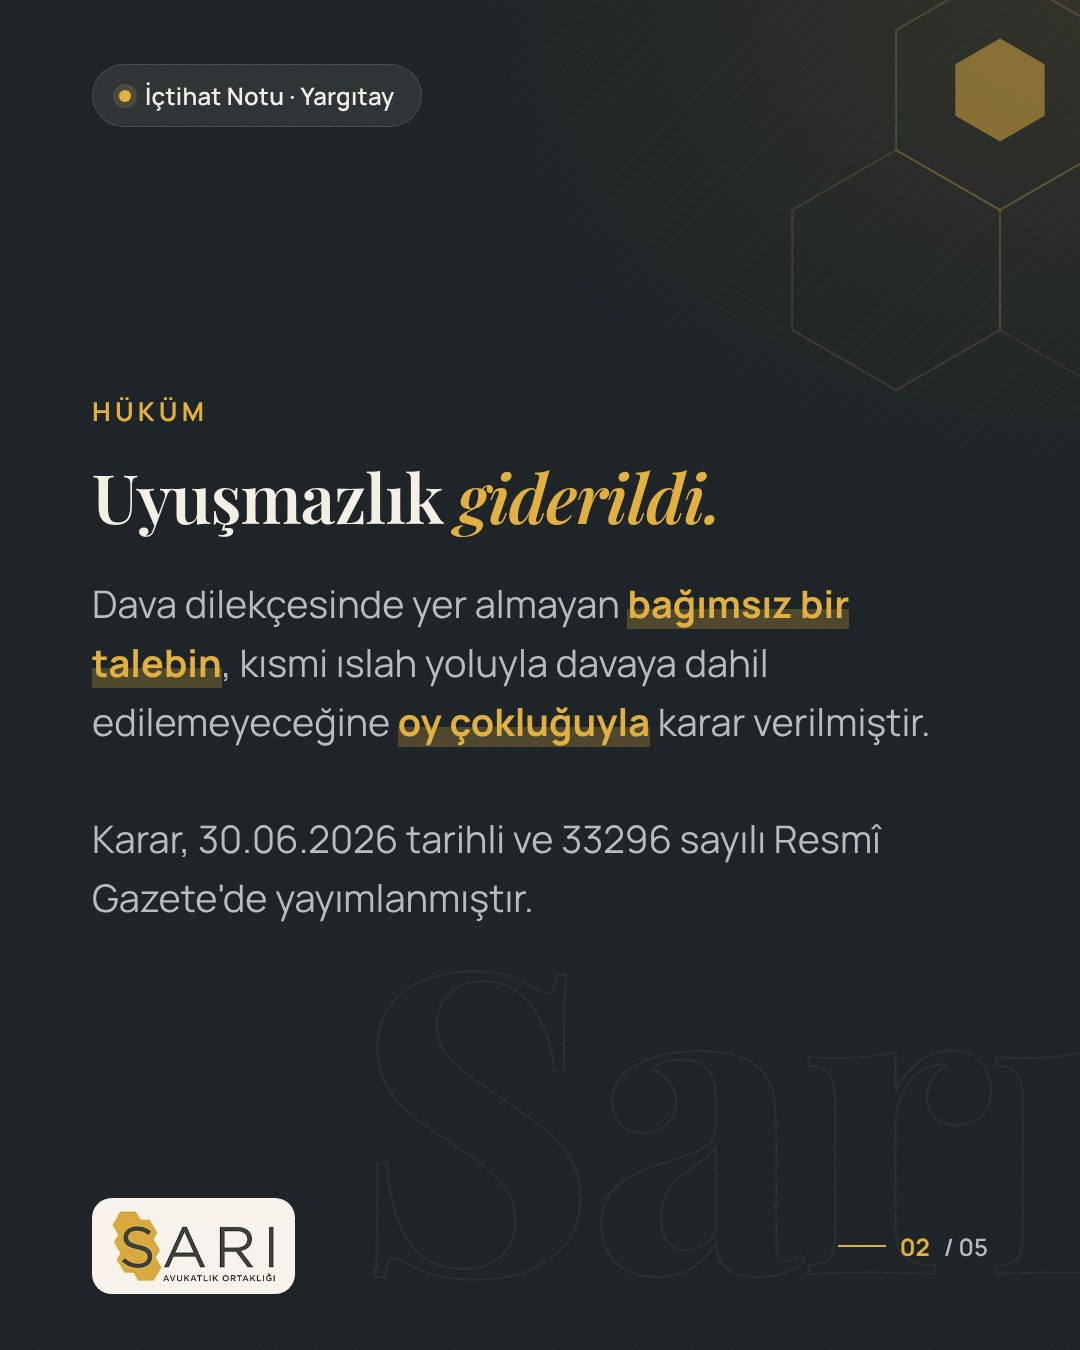
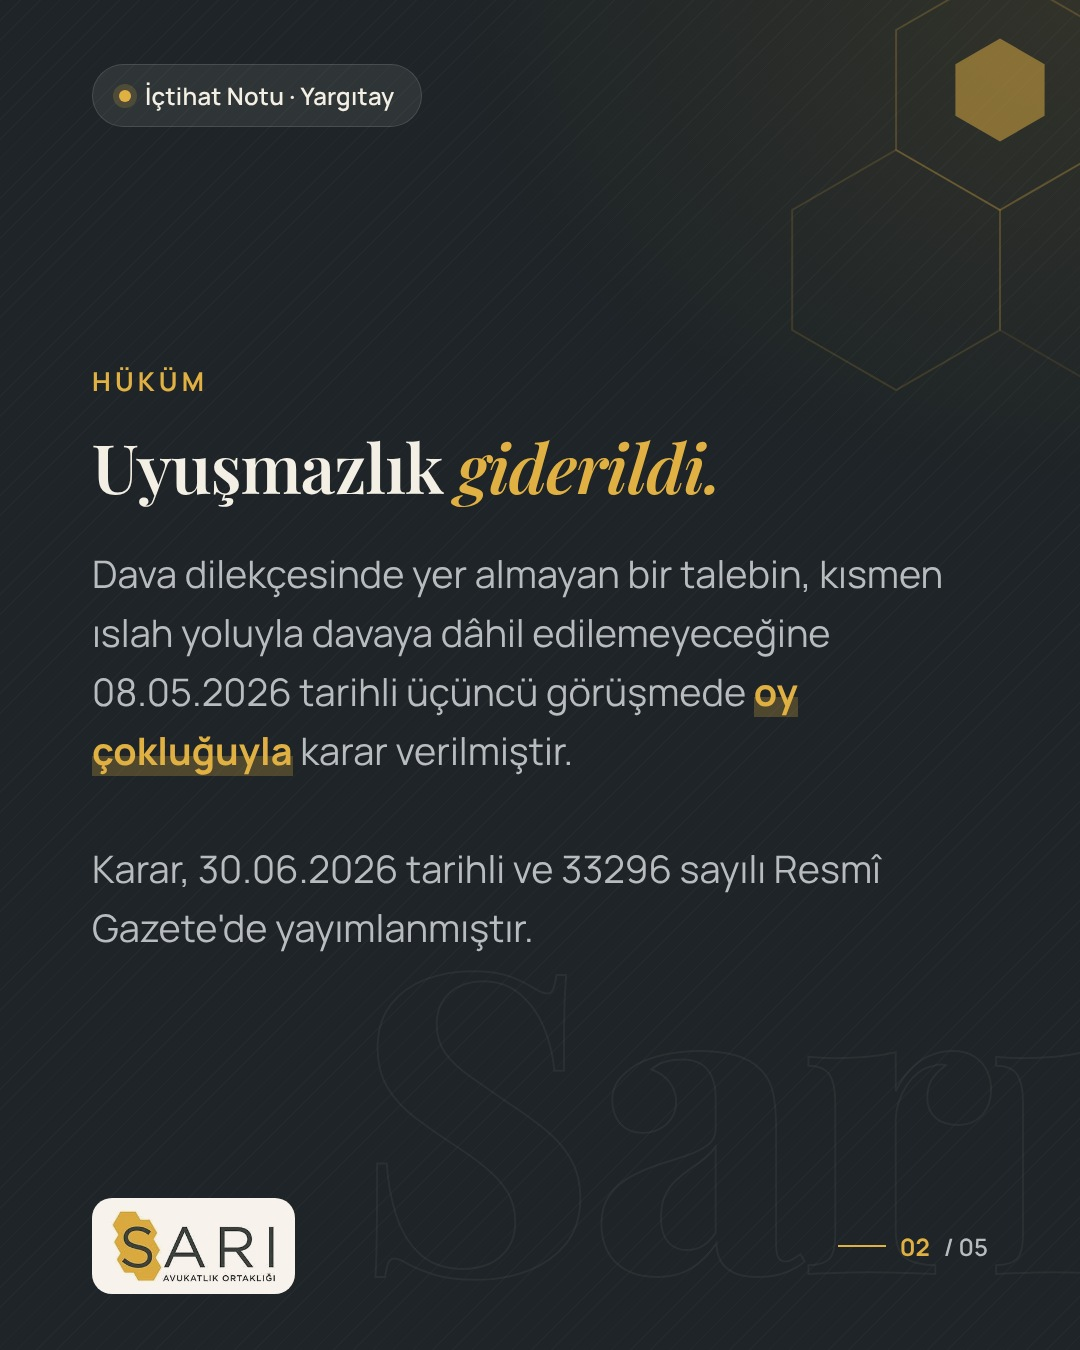
Verify İBK 2021/8 E. 2026/1 K. via UltraLaw; correct reasoning slide; UltraLaw verification rule
Claude-Session: https://claude.ai/code/session_0164oKcT3mMCAzEmKnB2D6t4

Changed region(s): [[0.0611, 0.28, 0.8861, 0.7156]]

diff --git a/saripartners/rehber/icerik-plani.md b/saripartners/rehber/icerik-plani.md
@@ -164,3 +164,8 @@ Tasarım (petek motifi, filigran, doku, renkler) aynen korunur. Değişen şey *
 **Noktalama (kullanıcı kuralı, 15.11.2026):** Cümle sonlarına her zaman nokta konur; virgül ve diğer noktalama işaretleri Türkçe yazım kurallarına göre eksiksiz kullanılır. Cümlenin parçası olmayan süs işaretleri ("→", "≠", gereksiz "·" ayırıcıları) metinde kullanılmaz.
 
 **Öğrenme notu (fırtına gönderisi, 15.11.2026):** İlk sürüm uzun ve kitabi bulundu. Asıl bilgi ("Trafik sigortası ödemez.") büyük ve kalın olmalı; anlatım kısa, tek seferde ve en fazla 3–4 slayt olmalı. Bu not ileriye dönük bir kuraldır; yayınlanmış gönderi yeniden paylaşılmaz.
+
+**UltraLaw ile doğrulama (17.11.2026):** Her hukuki bilgi yayından önce büronun UltraLaw kaynaklarıyla doğrulanır:
+- **Karar künyeleri ve gerekçe:** UltraLaw karar deposu (Yargıtay, Danıştay, AYM, UYAP Emsal, kurul kararları). Künye doğrulanır, karar metni açılır; gönderideki gerekçe karar metninden alınır, doktrin görüşü kararın gerekçesi gibi sunulmaz.
+- **Kanun maddesi, süre, oran ve Resmî Gazete:** UltraLaw mevzuat ve Resmî Gazete araçları. Bu araçlar ile siteler üzerinde canlı arama ve Lexpera, Lebib Yalkın, Sinerji bankaları, büroda UltraLaw'ın açık olduğu bir bilgisayar gerektirir. Bilgisayar açık değilse ikincil kaynaklarla doğrulanır ve bu durum onay paketinde belirtilir.
+- Büronun müvekkil, dosya ve mali kayıtları bu iş için kullanılmaz.
